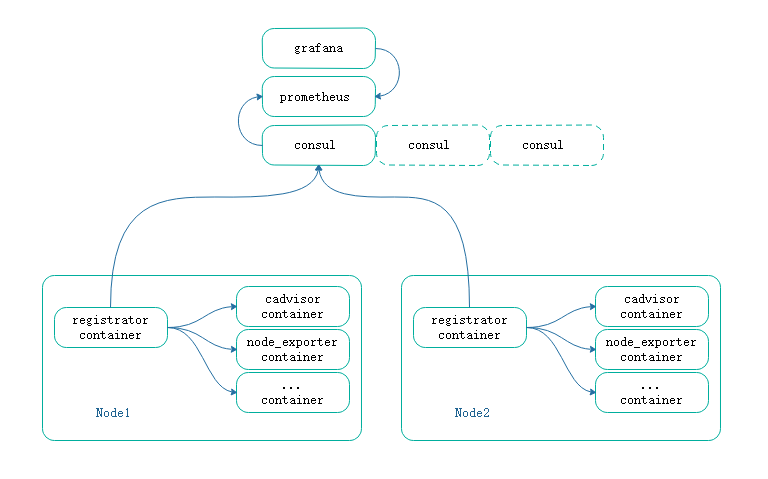
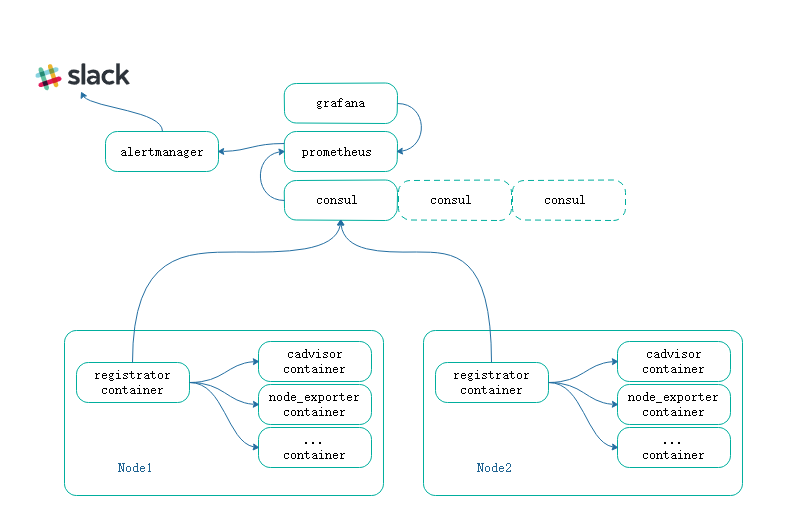
add alertmanager

diff --git a/README.md b/README.md
@@ -9,8 +9,8 @@ pcr组合了prometheus consul registrator，为了使用起来可以快速部署
   - [registrator须知](#registrator须知)
   - [prometheus须知](#prometheus须知)
   - [grafana须知](#grafana须知)
-  - [alert.rules](#alert.rules)
-  - [alertmanager](alertmanager)
+  - [alert.rules](#alert_rules)
+  - [alertmanager](#alertmanager)
 
 ## 使用说明
 
@@ -120,7 +120,7 @@ exec "$@"
 
 
 ![1218.png](https://raw.githubusercontent.com/marksugar/pcr/master/node_template/1218.png)
-## alert.rules
+## alert_rules
 主机存活阈值
 ```
 groups:
